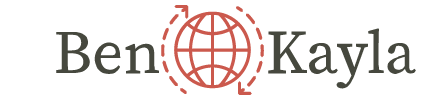
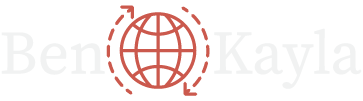
Dark mode

Changed region(s): [[0.1212, 0.03, 1.0, 0.96]]

diff --git a/index.html b/index.html
@@ -20,7 +20,7 @@
   <!-- CSS
   –––––––––––––––––––––––––––––––––––––––––––––––––– -->
   <link rel="stylesheet" href="css/normalize.css">
-  <link rel="stylesheet" href="css/skeleton-light.css">
+  <link rel="stylesheet" href="css/skeleton-dark.css">
   <link rel="stylesheet" href="css/brands.css">
 
   <!-- Favicon
